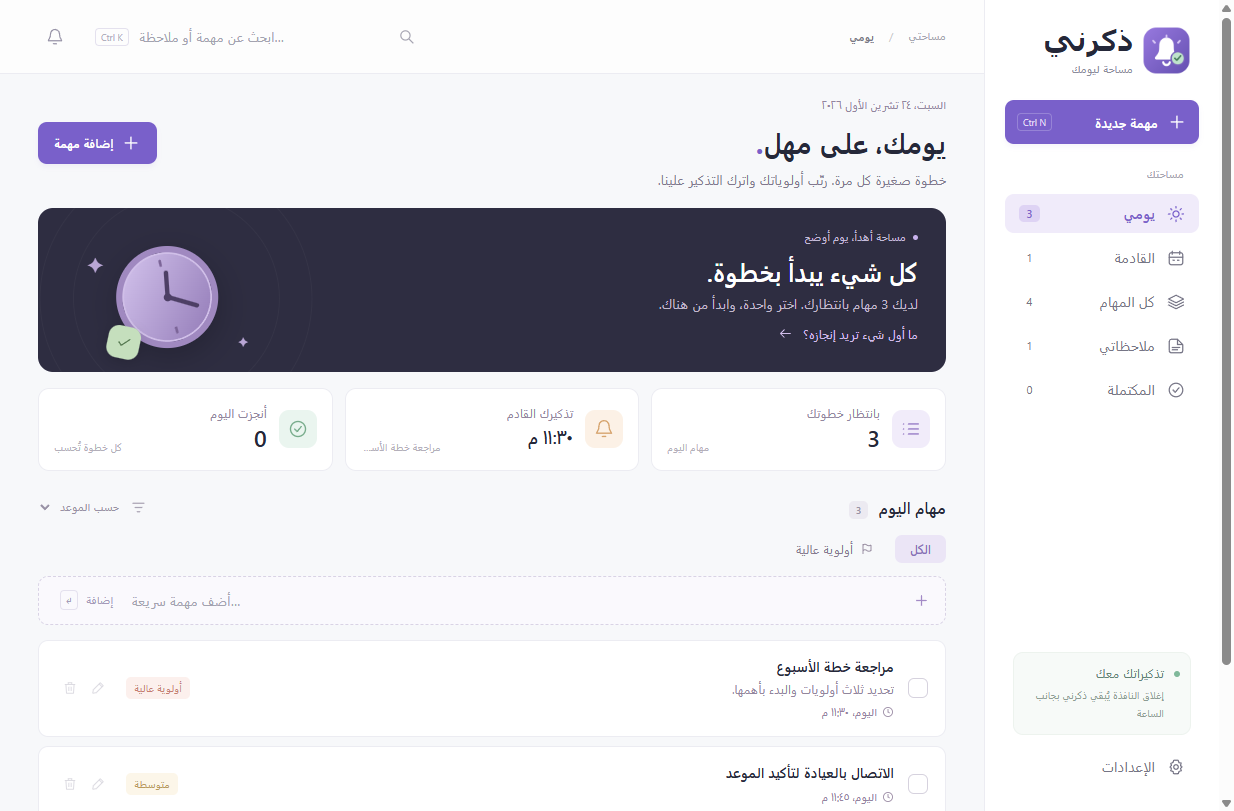
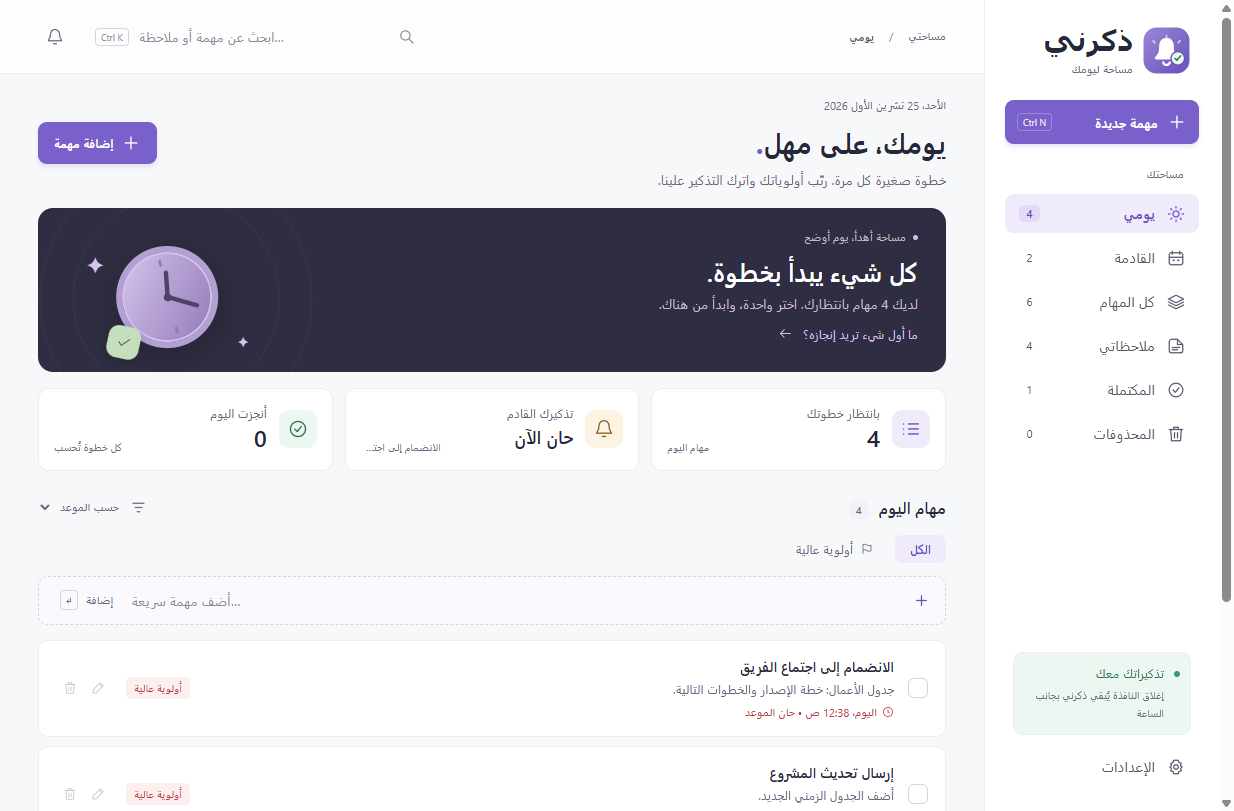
Retake the screenshots from sample data with a script
tools/desktop-screenshots.cjs (pnpm run screenshots) runs the app from
the sources in test mode with a temporary data folder seeded with
made-up tasks and notes, and writes docs/screenshots: the main window
and the alert in English and Arabic, the notes view, and the main
window in dark mode with the Ocean palette. The README shows the notes
and dark shots and links the Arabic ones; RELEASING.md asks to rerun
it when the interface changed.

diff --git a/README.md b/README.md
@@ -20,6 +20,13 @@ Remember Me is an open-source desktop app for 64-bit Windows. It runs without an
   <img src="docs/screenshots/alert-en.png" width="23%" alt="Sticky reminder above the taskbar: an overdue task with Done, snooze choices and a queue of two">
 </p>
 
+<p align="center">
+  <img src="docs/screenshots/notes-en.png" width="45.5%" alt="Notes as sticky notes, lined paper and plain cards in several paper colors">
+  <img src="docs/screenshots/dark-en.png" width="45.5%" alt="The main window in dark mode with the Ocean palette">
+</p>
+
+<p align="center">In Arabic: <a href="docs/screenshots/main-ar.png">main window</a> · <a href="docs/screenshots/alert-ar.png">reminder</a></p>
+
 ## Features
 
 - **Sticky reminders:** a persistent alert above the taskbar, shown on top of other windows until you choose **Done** or snooze it. It shows how overdue a reminder is, its priority and repeat, and the next occurrence; when several are waiting it shows them one at a time with a *1 of N* counter, and **Open task** opens the task itself.
@@ -162,6 +169,8 @@ pnpm run installer
 ```
 
 Requires Node.js 22 or newer and pnpm 10. `pnpm run package` produces a portable build in `release/v<version>`, and `pnpm run installer` produces an NSIS installer in `release/installer`.
+
+`pnpm run screenshots` retakes the pictures in `docs/screenshots` (`tools/desktop-screenshots.cjs`): it runs the app in test mode with made-up sample tasks and notes in a temporary data folder, in English and Arabic, light and dark, so no personal data ends up in the repository. It needs Playwright, a devDependency.
 
 `pnpm run assets` redraws the icons in `assets/` with Electron: `icon.ico` with 10 sizes from 16 to 256 px (16-32 px use the simpler `icon-small.svg` glyph without rays), `icon.png`, and the tray images `tray.png` and `tray-waiting.png` with `@1.5x` and `@2x` versions. It also writes [`docs/icon-preview.png`](docs/icon-preview.png), every size on a light and a dark taskbar.
 

diff --git a/RELEASING.md b/RELEASING.md
@@ -10,6 +10,7 @@ Releases are built only by `.github/workflows/release.yml` on GitHub Actions, ne
 - [ ] In `package.json`, set `"version": "1.5.0"`. The lockfile doesn't change.
 - [ ] In `CHANGELOG.md`, replace `## v1.5.0 (unreleased)` with `## v1.5.0 (YYYY-MM-DD)` and check the entries match what's merged.
 - [ ] Check the entry against `git log v1.4.0..main --oneline` and the merged pull requests: every user-visible change since the last release needs a line with its PR. Replace or delete every **TODO** line and the 'Before release' note.
+- [ ] If the interface changed, run `pnpm run screenshots` and commit the new `docs/screenshots` (sample data only).
 - [ ] In the README's "Verify the download" section, change the example file name to `Remember-Me-Setup-1.5.0-x64.exe`.
 - [ ] Merge these changes through a pull request, and wait for **Tests** to pass on `main`.
 

diff --git a/ARCHITECTURE.md b/ARCHITECTURE.md
@@ -46,7 +46,7 @@ true (see "Keeping this document current").
 | Shared by both windows: languages (`translate.js`, `i18n.js`), helpers and icons (`shared.js`), search, alert formatting | `ui/lib/*.js` |
 | Stylesheets and theme tokens | `ui/styles/*.css` |
 | Translations | `ui/locales/*.json` |
-| Packaging, installer, winget manifests, icon generator | `tools/` |
+| Packaging, installer, winget manifests, icon generator, screenshots | `tools/` |
 | Unit tests (`node --test`) and Playwright desktop suites (`*-desktop.cjs`, `desktop-smoke.cjs`) | `tests/` |
 | Lint rules (folder-agnostic) and editor settings | `eslint.config.cjs`, `.editorconfig` |
 
